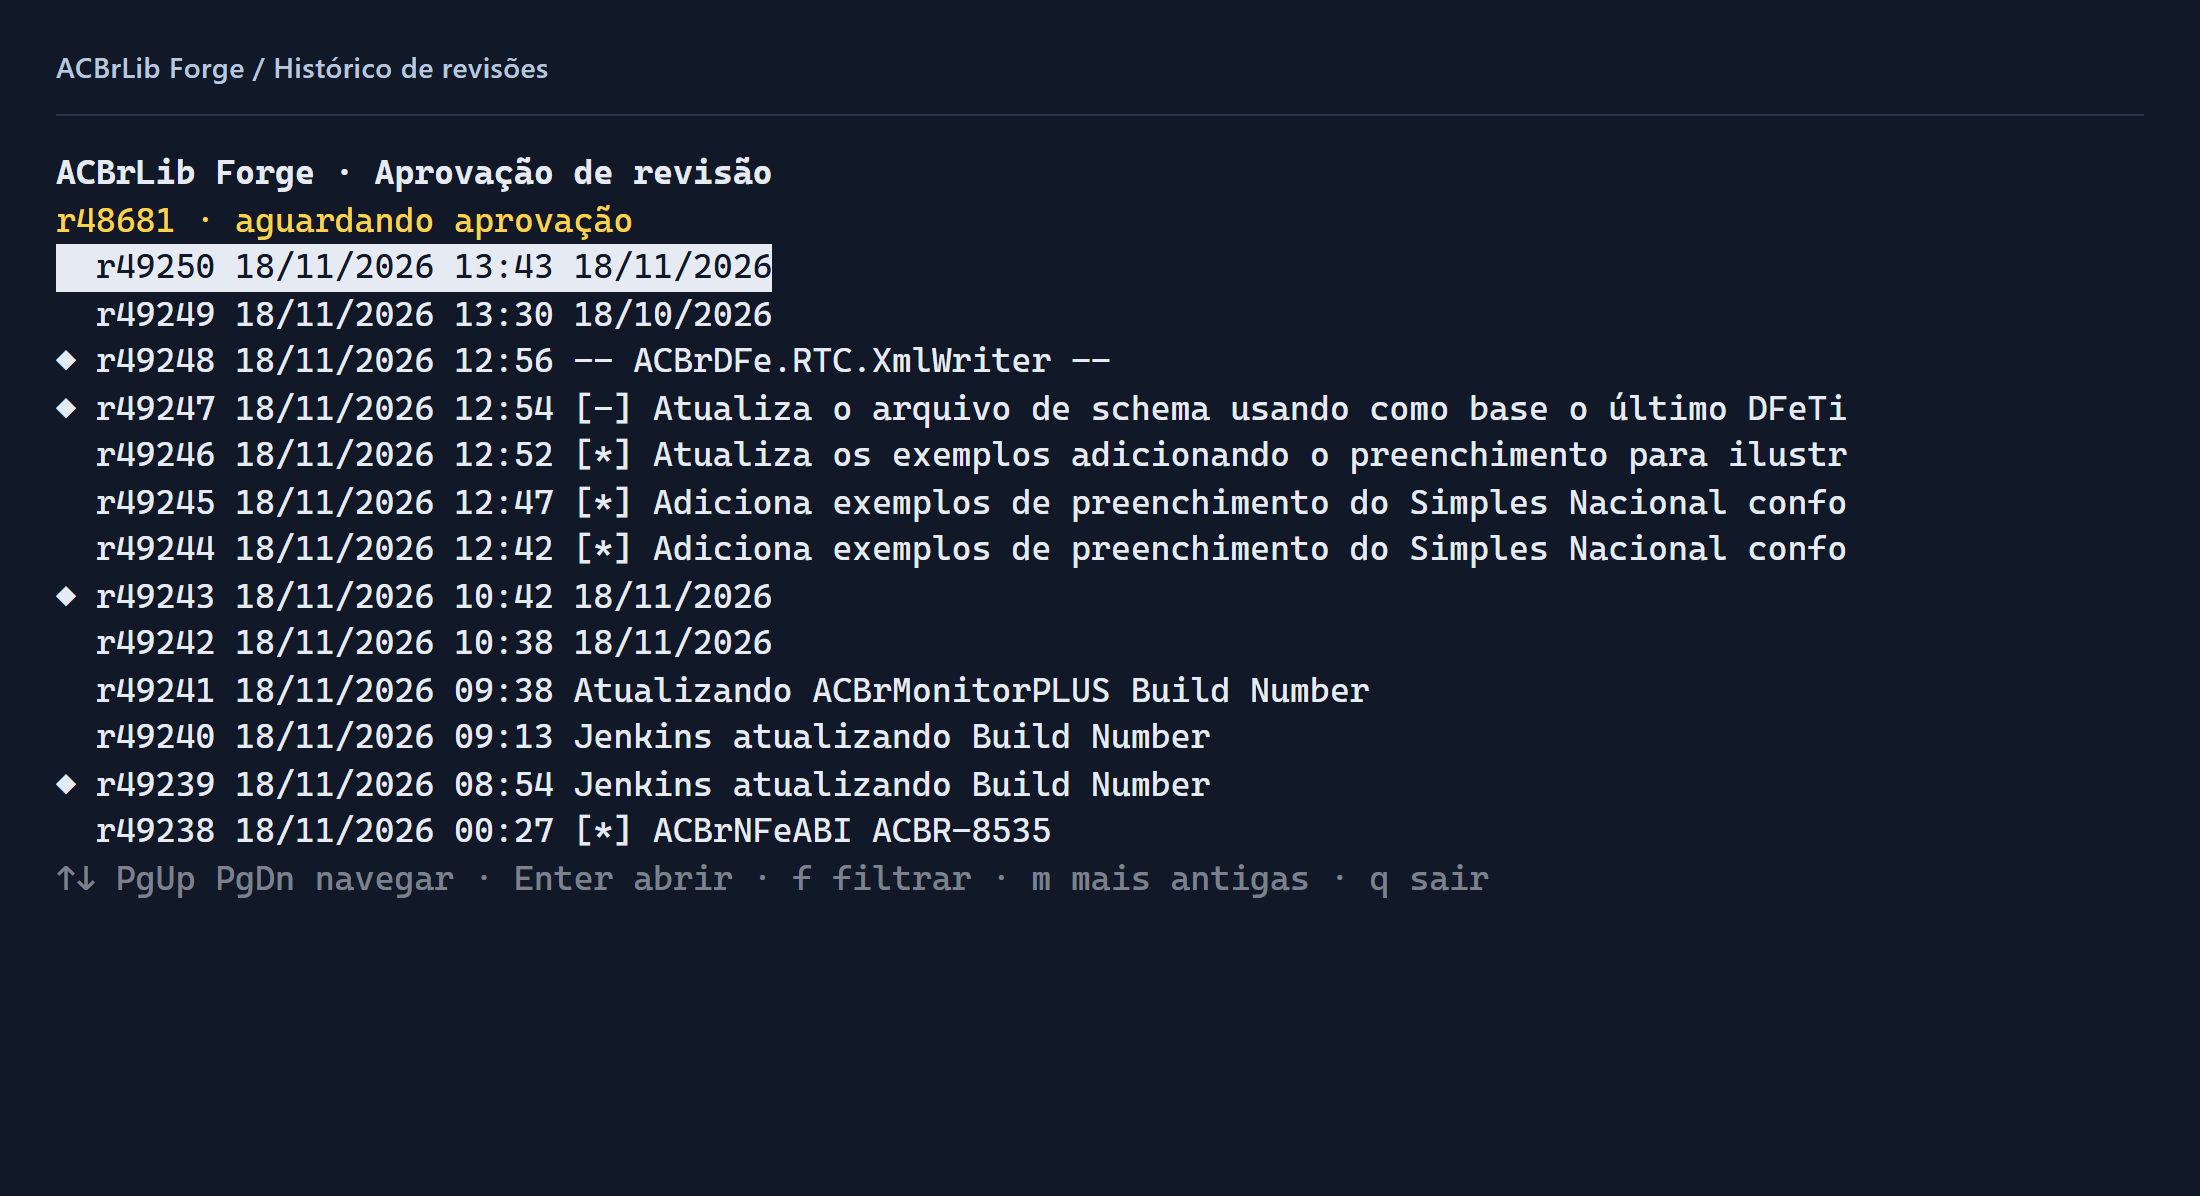
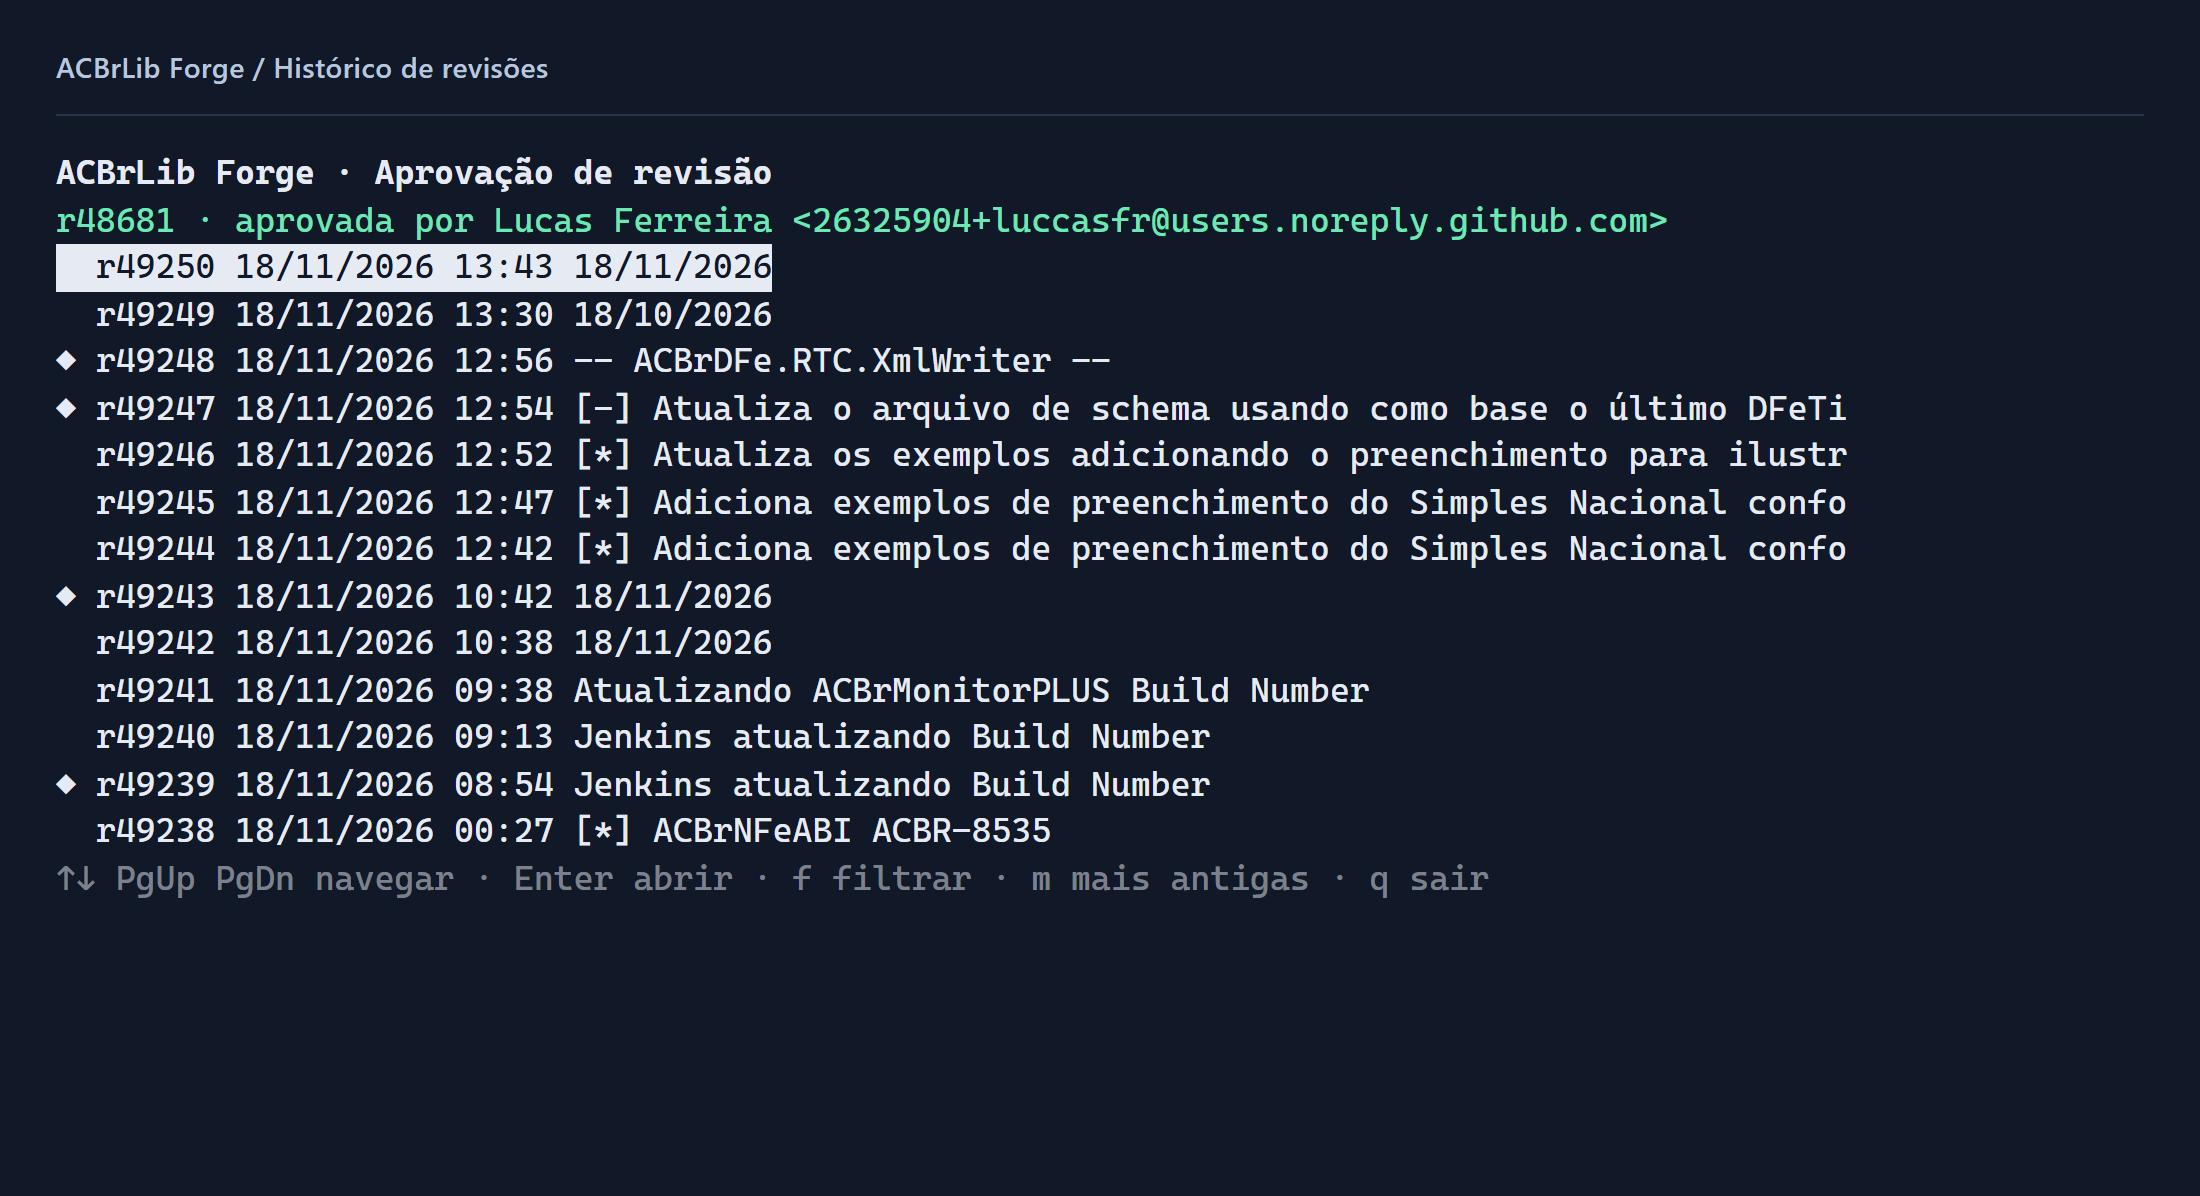
docs: show the signed r48681 approval

diff --git a/README.md b/README.md
@@ -7,6 +7,8 @@ Compile a ACBrLib ConsoleMT a partir de uma revisão do SVN oficial do ACBr, com
 
 Projeto independente para os [fontes públicos do Projeto ACBr](https://projetoacbr.com.br/fontes/).
 
+A r48681 passou na matriz dos quatro alvos e tem aprovação assinada. [Resultado da matriz](https://github.com/luccasfr/acbrlib-forge/actions/runs/44365366311) · [Aprovação da r48681](changes/r48681-r48681-ci44365366311.md)
+
 ## Por que existe
 
 Integradores precisam saber exatamente qual revisão da ACBrLib está em uso e quais binários foram testados. O Forge liga a revisão e a receita de build aos arquivos que chegam ao release.
